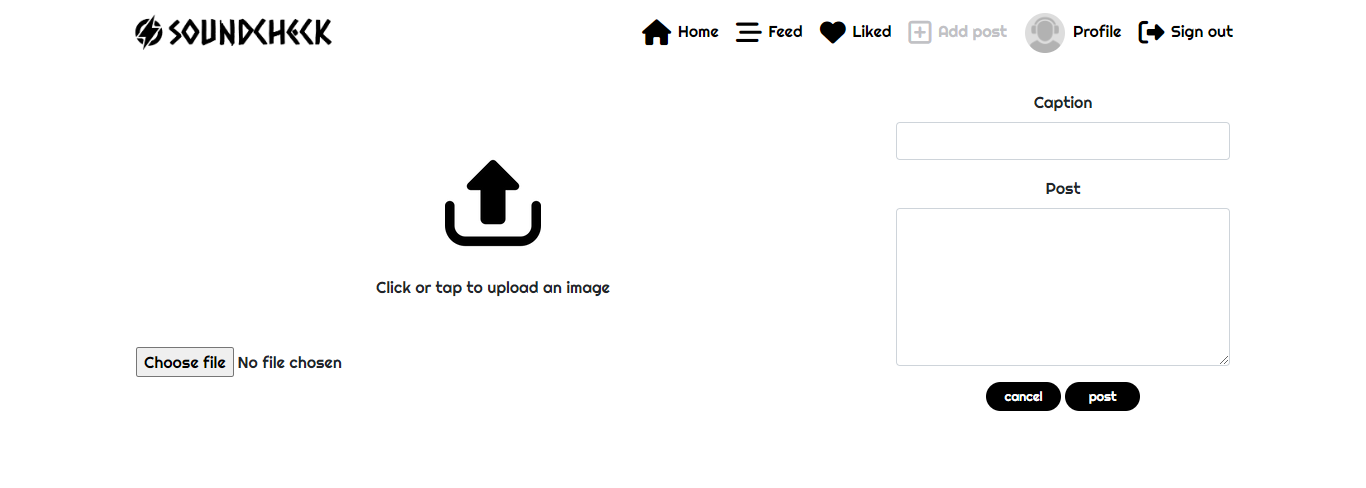
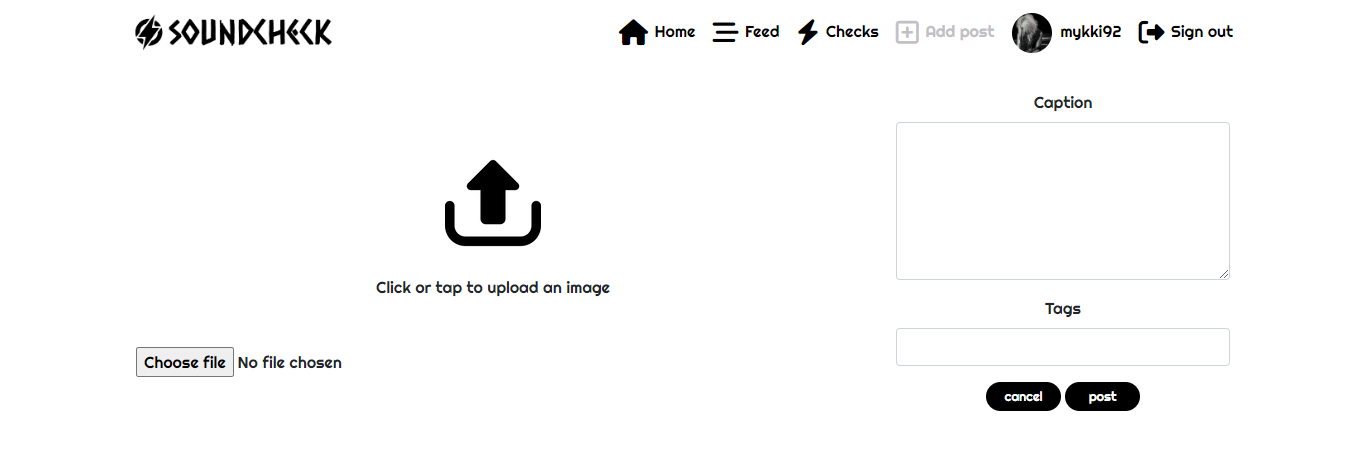
Update user story screenshots and bugs in readme

diff --git a/README.md b/README.md
@@ -831,8 +831,7 @@ The WAVE WebAIM web accessibility evaluation tool was used to test the websites 
 | Checks | Click the “Checks” button on the nav bar  | A list is displayed of all posts that you have previously checked | Works as expected |
 
 <details><summary>Screenshots</summary>
-  <img src="docs/testing/user-story-testing-19-01.png">
-  <img src="docs/testing/user-story-testing-19-02.png">
+  <img src="docs/testing/user-story-testing-19.png">
 </details>
 <br>
 <hr>
@@ -1054,6 +1053,8 @@ Testing has been carried out on the following browsers:
 | ------- | ------- |
 | Upload and No Results icons are displaying too large | Resize original images and reupload |
 | Infinite scroll is not displaying in grid format on the profile page | Put the grid format as part of the infinite scroll elements properties rather than its parent div container |
+| Post edit form requires user to reupload image every time, even if only editing caption or tags | Remove duplicate formDate.append command before the if statement that handles the image input in the handleSubmit function |
+| Comment count on post detail view does not update until the page has been refreshed when deleting a comment | Error in the handleDelete function refers to comments_number, corrected to comments_count |
 
 
 ## Deployment
